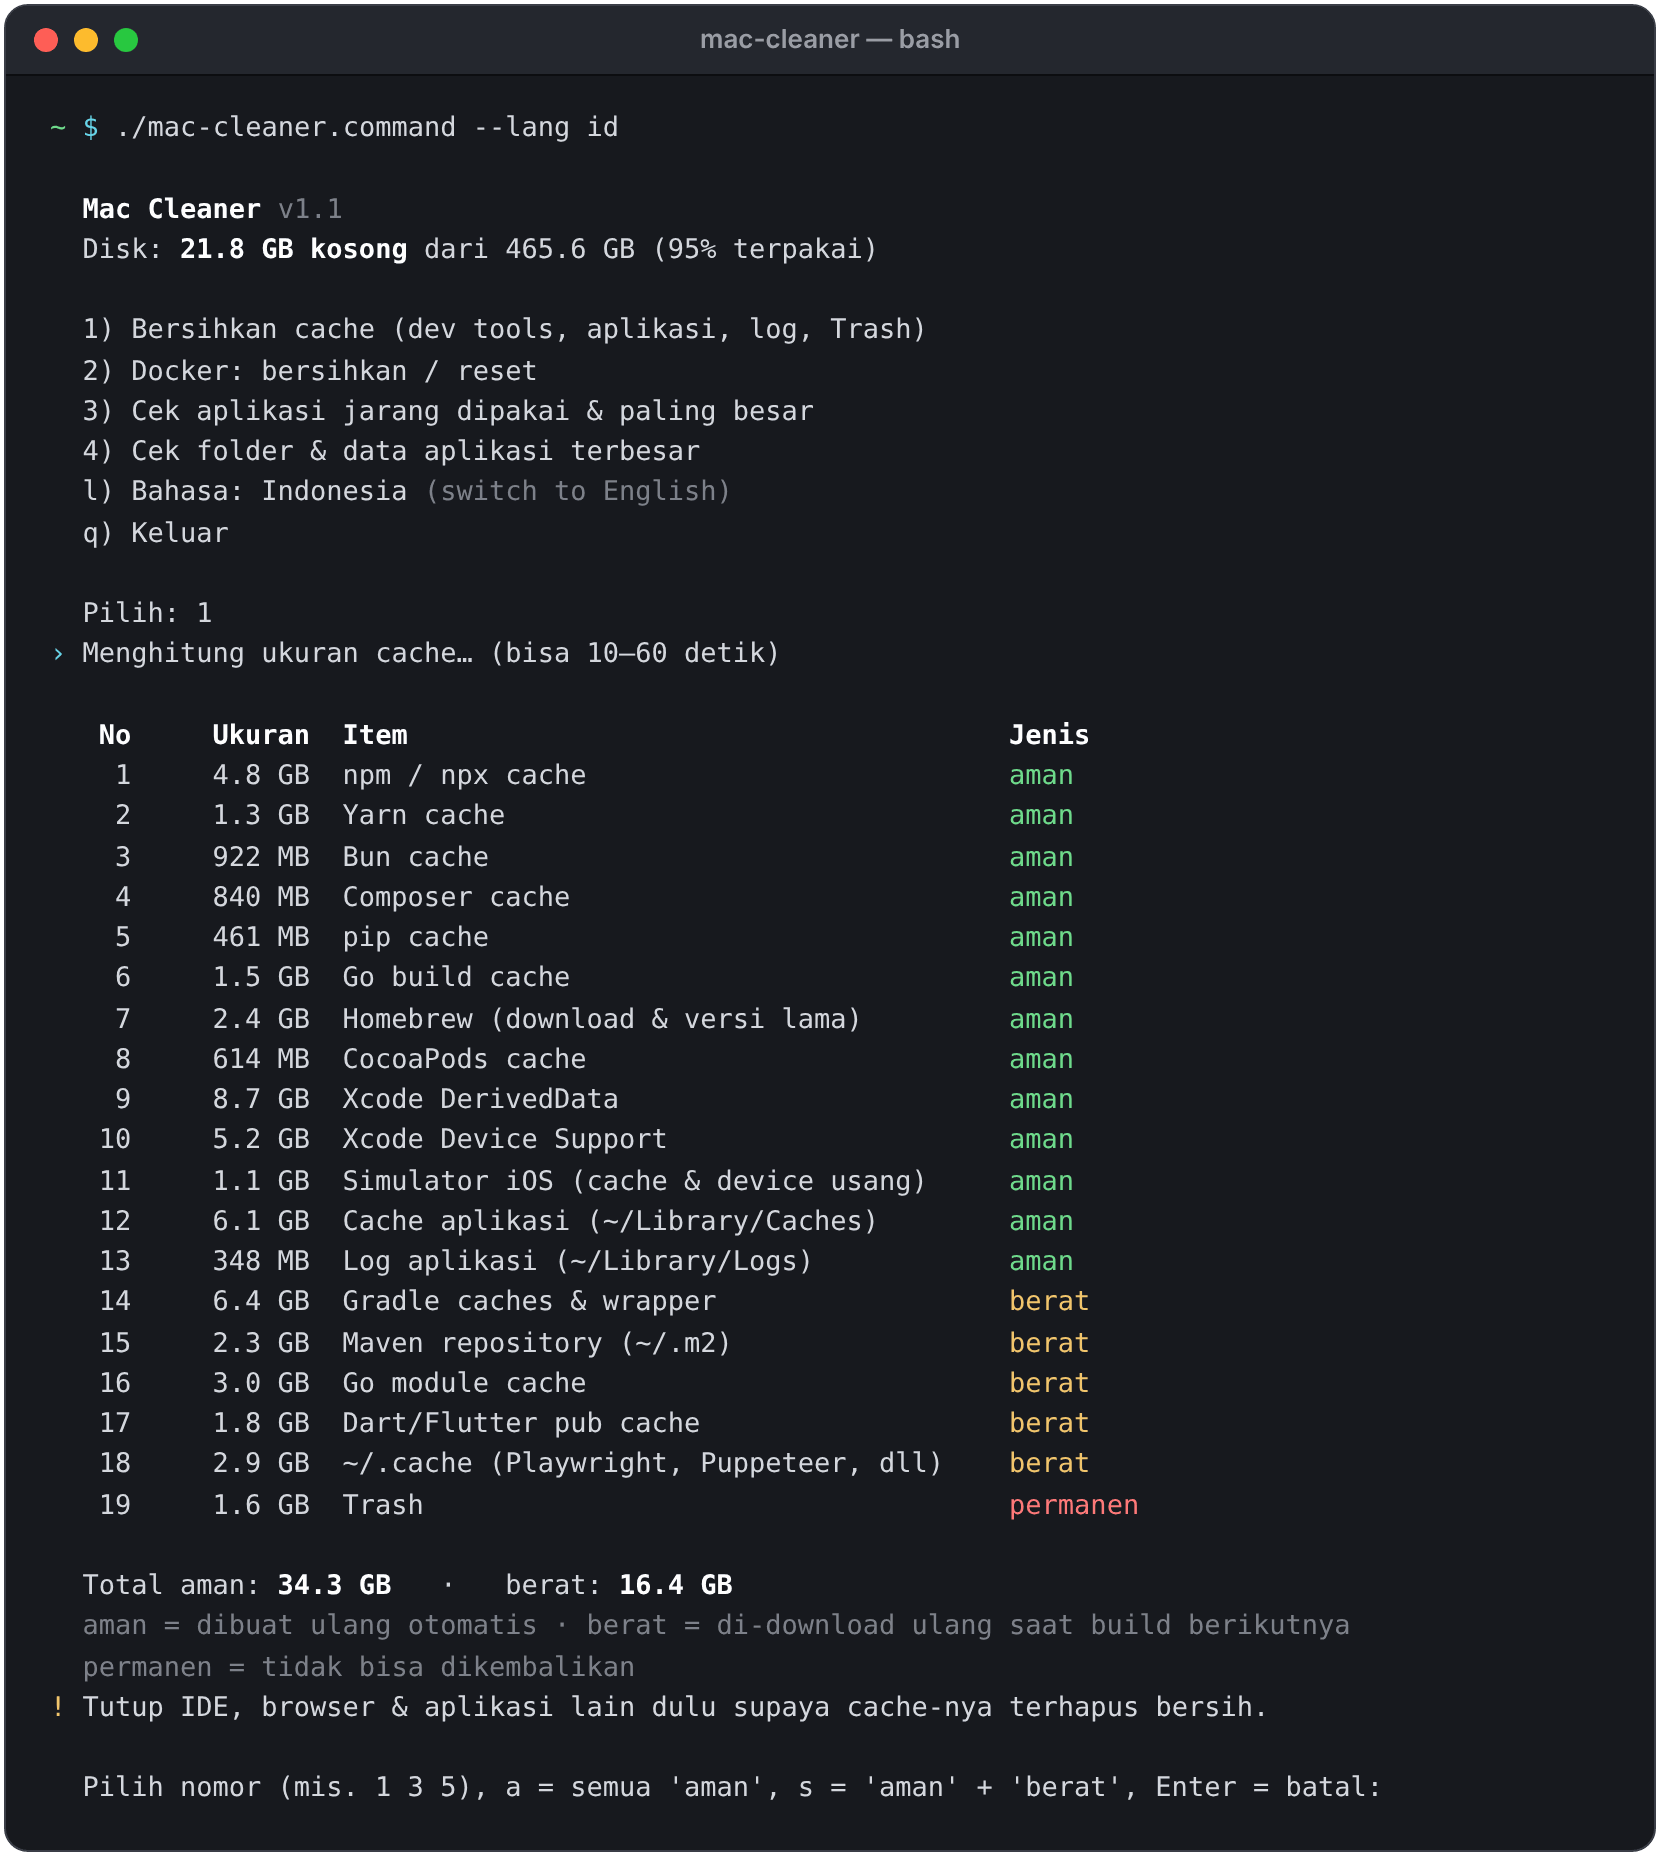
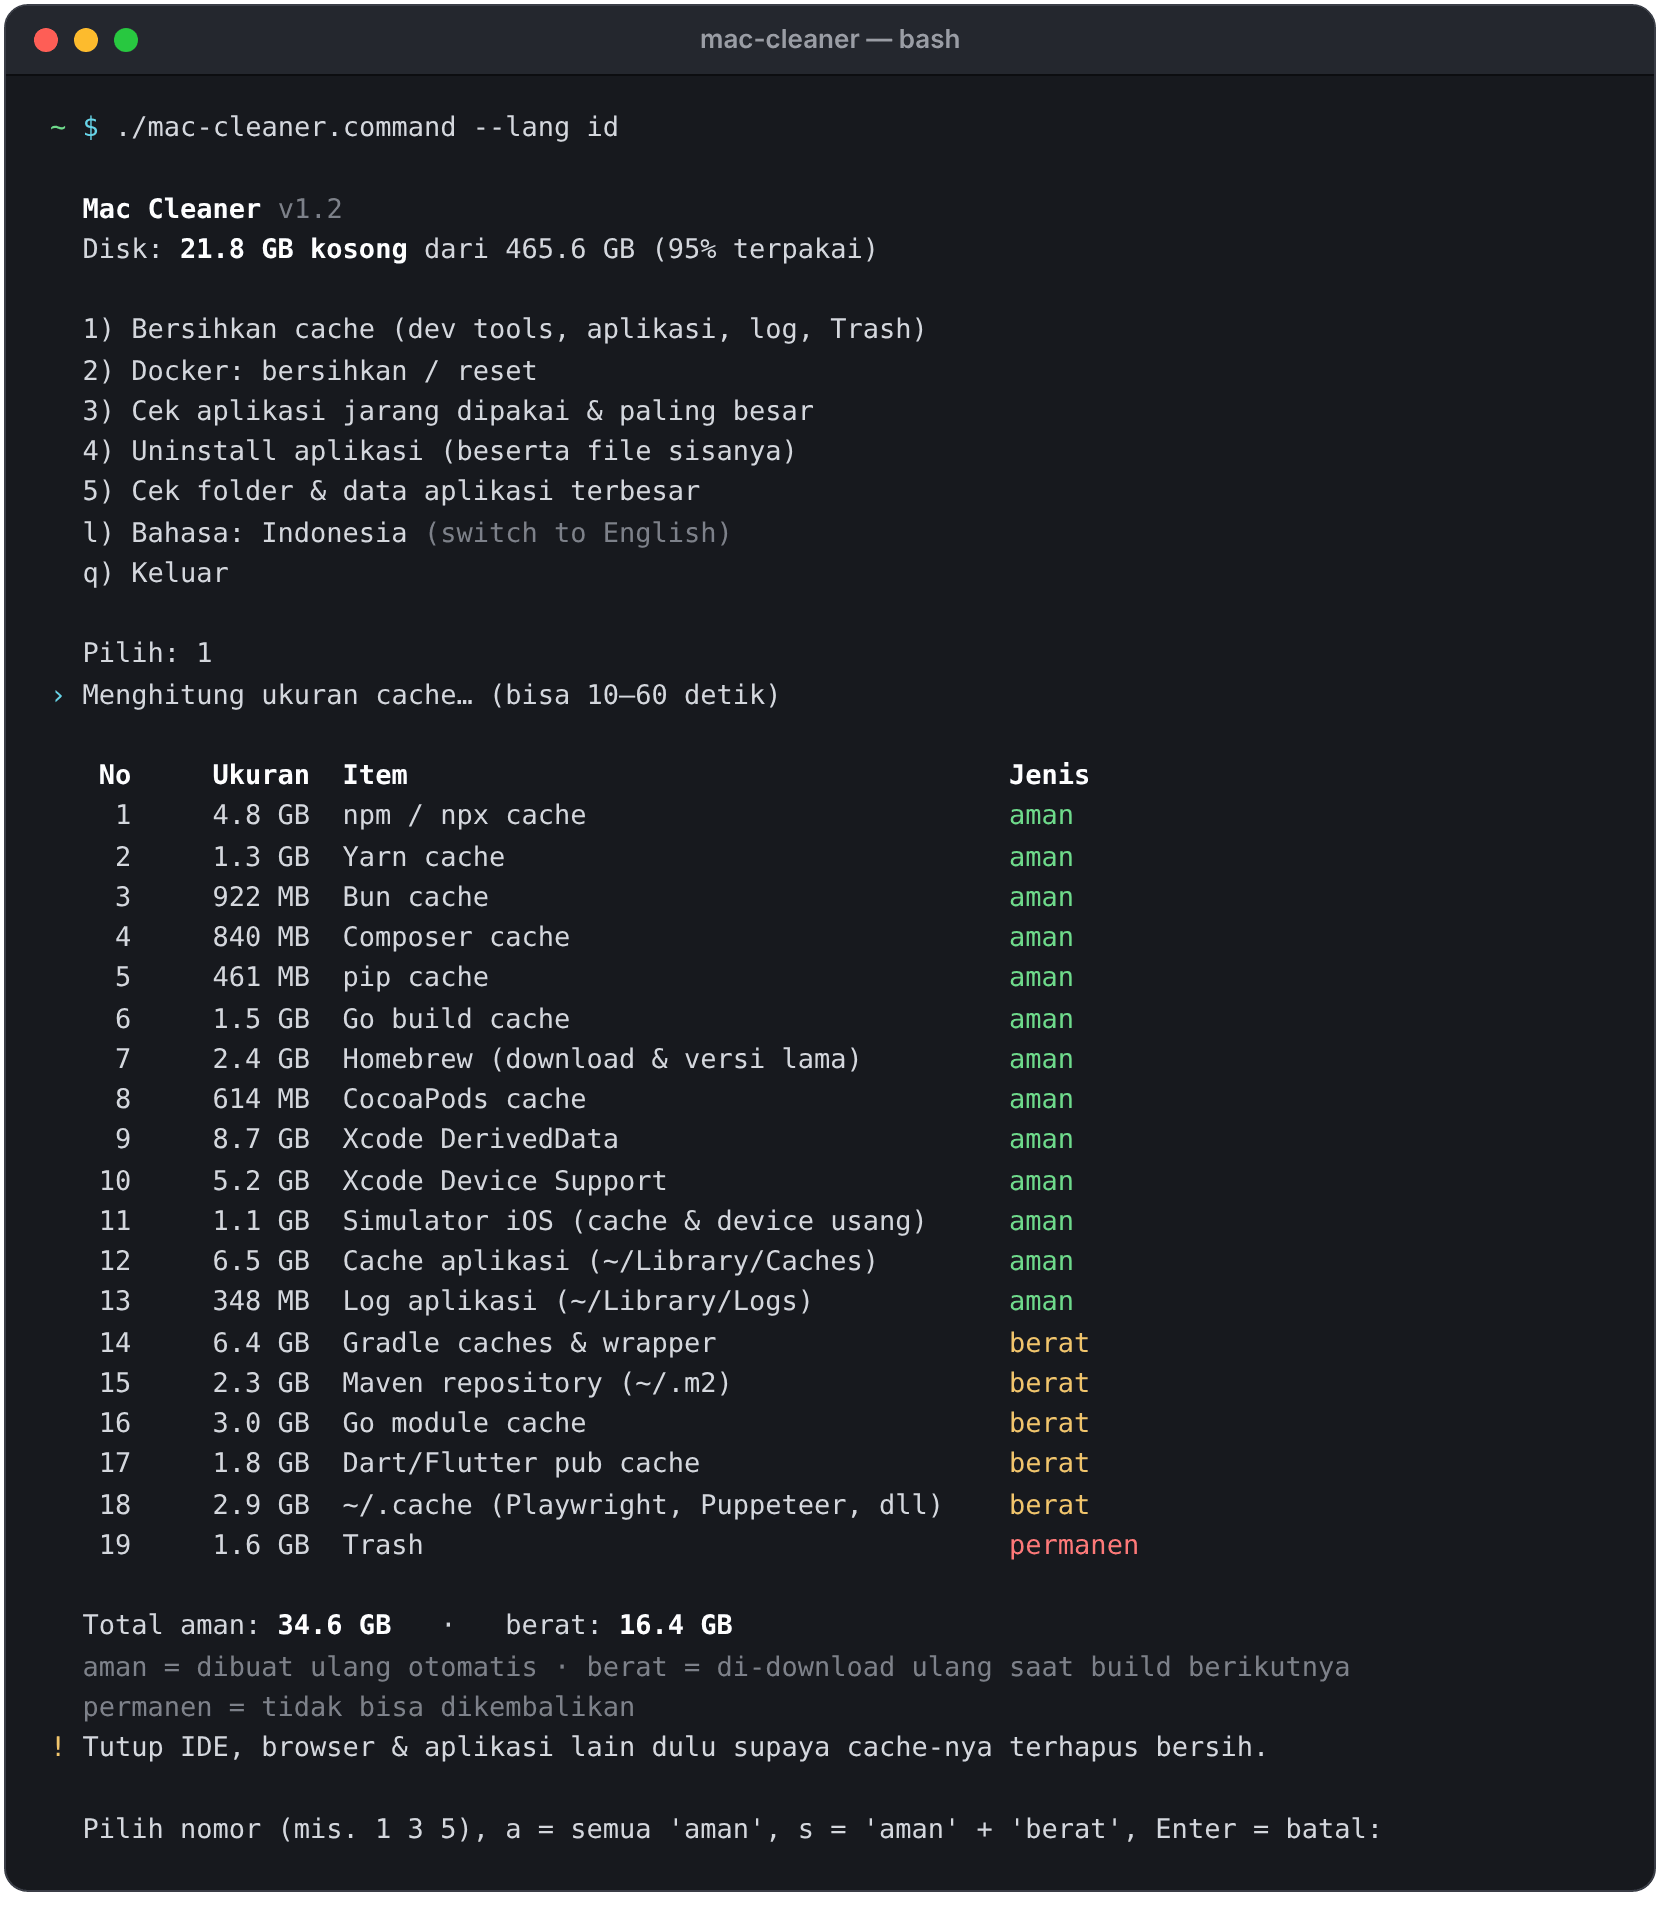
Add app uninstaller (v1.2)
New menu 4 "Uninstall an app": search, pick an app, and Mac Cleaner lists
the app plus its leftover files in ~/Library (Application Support, Caches,
Logs, Preferences, Saved Application State, Containers, Group Containers,
HTTPStorages, WebKit, Cookies, LaunchAgents, Application Scripts), then
moves everything to the Trash via Finder.

- Matches by bundle ID (incl. helpers and team/group containers) and by a
  folder named exactly like the app
- Never includes files of another installed app (e.g. Chrome vs Canary);
  with duplicate copies only the app itself is removed
- Offers to quit a running app first; 'a' removes the app only
- /Library system files are listed but never removed (need admin)
- Menu 3 now uses the same uninstall flow; largest folders moves to menu 5
- README + screenshots updated

Claude-Session: https://claude.ai/code/session_018yoJ2Y9ACy9wAvsBj1ghxZ

diff --git a/README.md b/README.md
@@ -7,7 +7,8 @@ One interactive script, no install, no sudo, no dependencies. English & Bahasa I
 
 - 🧹 **Clean caches** — npm, Yarn, pnpm, Bun, Composer, pip, Go, Homebrew, Gradle, Maven, Flutter, NuGet, Xcode, iOS Simulator, `~/Library/Caches`, logs, Trash
 - 🐳 **Docker / OrbStack** — prune build cache & unused images, remove unused volumes, or a full OrbStack reset
-- 📦 **Find rarely used & large apps** — sorted by size, with "last opened" from macOS, and move them to Trash
+- 📦 **Find rarely used & large apps** — sorted by size, with "last opened" from macOS
+- 🗑 **Uninstall apps completely** — the app plus its leftover files in `~/Library` (preferences, caches, containers, app data…), moved to the Trash
 - 📊 **Find the largest folders & app data** in your home folder and `~/Library`, then reveal them in Finder
 
 ![Mac Cleaner cleaning developer caches](screenshots/caches.png)
@@ -50,6 +51,10 @@ The language follows your macOS language by default. Switch it any time with **`
 **Rarely used & largest apps** — sorted by size, with when each app was last opened
 
 ![Rarely used and largest apps](screenshots/apps.png)
+
+**Uninstall an app** — the app and every leftover file are listed (with sizes) before anything moves
+
+![Uninstall an app with its leftover files](screenshots/uninstall.png)
 
 **Docker / OrbStack** — stopped containers are listed before anything is removed
 
@@ -97,11 +102,24 @@ Every item shows its size first and only runs after you confirm. Items are label
 
 OrbStack returns freed disk space to macOS automatically.
 
+## Uninstalling apps
+
+Menu **4** (or pick an app straight from the rarely-used list in menu **3**). Search by name, pick an app, and Mac Cleaner shows the app plus everything it left in your `~/Library`:
+
+`Application Support`, `Caches`, `Logs`, `Preferences` (incl. `ByHost`), `Saved Application State`, `Containers`, `Group Containers`, `HTTPStorages`, `WebKit`, `Cookies`, `LaunchAgents`, `Application Scripts`.
+
+- Files are matched by the app's **bundle ID** (e.g. `com.docker.docker`, its helpers, team/group containers) and by a folder with **exactly** the app's name.
+- Files that belong to **another installed app** are never included (uninstalling Chrome leaves Chrome Canary alone). If two copies of the same app are installed, only the app is removed.
+- Everything goes to the **Trash**, so you can put it back. Choose `a` to remove only the app.
+- A running app is quit first (you're asked).
+- System-level files in `/Library` (launch daemons, helper tools) are **shown but not removed** — they need an admin password.
+- Apps installed in their own vendor folder (e.g. Adobe) get a hint to use the vendor's uninstaller. Installed with Homebrew? `brew uninstall --cask --zap <name>` also does a full cleanup.
+
 ## Safety
 
 - No `sudo`. The script itself only deletes inside your home folder, and only the **contents** of known cache folders. Anything else is done by each tool's own cleanup command (`brew cleanup`, `docker … prune`, `orb reset`, `xcrun simctl`).
-- Never touched: Desktop, Documents, Downloads, Pictures, Music, Movies, your projects, `~/.ssh`, Keychains, Preferences.
-- Apps are **moved to Trash** (recoverable), never deleted directly. Running apps are skipped.
+- Never touched: Desktop, Documents, Downloads, Pictures, Music, Movies, your projects, `~/.ssh`, Keychains. Preferences are only removed for an app you uninstall.
+- Uninstalled apps and their leftovers are **moved to the Trash** (recoverable), never deleted directly.
 - Use `--dry-run` first to see exactly what would happen.
 
 ## Requirements
@@ -115,7 +133,9 @@ OrbStack returns freed disk space to macOS automatically.
 
 **An app shows "never recorded".** macOS has no record of it being opened — it was never opened, or only launched from the command line.
 
-**Menu 4 doesn't count `~/Library/Containers`.** Those folders need *Full Disk Access*. Give it to Terminal in *System Settings › Privacy & Security › Full Disk Access* if you want them included. Without it, Mac Cleaner skips them so you don't get a flood of permission pop-ups.
+**Menu 5 doesn't count `~/Library/Containers`.** Those folders need *Full Disk Access*. Give it to Terminal in *System Settings › Privacy & Security › Full Disk Access* if you want them included. Without it, Mac Cleaner skips them so you don't get a flood of permission pop-ups.
+
+**macOS asks whether Terminal may "access data from other apps".** That happens when uninstalling a sandboxed app, because its leftovers live in `~/Library/Containers`. Allowing it lets Mac Cleaner measure and move those files.
 
 **macOS blocks double-clicking the file.** If you downloaded it with a browser, run `xattr -d com.apple.quarantine mac-cleaner.command` and `chmod +x mac-cleaner.command` once. Files from `git clone` or `curl` don't have this problem.
 
@@ -136,7 +156,8 @@ Satu script interaktif, tanpa instalasi, tanpa sudo, tanpa dependency. Tersedia 
 
 - 🧹 **Bersihkan cache** — npm, Yarn, pnpm, Bun, Composer, pip, Go, Homebrew, Gradle, Maven, Flutter, NuGet, Xcode, Simulator iOS, `~/Library/Caches`, log, Trash
 - 🐳 **Docker / OrbStack** — hapus build cache & image tak terpakai, hapus volume tak terpakai, atau reset total OrbStack
-- 📦 **Cari aplikasi jarang dipakai & paling besar** — urut dari yang terbesar, lengkap dengan "terakhir dibuka", lalu pindahkan ke Trash
+- 📦 **Cari aplikasi jarang dipakai & paling besar** — urut dari yang terbesar, lengkap dengan "terakhir dibuka"
+- 🗑 **Uninstall aplikasi sampai bersih** — aplikasi beserta file sisanya di `~/Library` (preferensi, cache, container, data aplikasi…), dipindah ke Trash
 - 📊 **Cari folder & data aplikasi terbesar** di folder home dan `~/Library`, lalu tampilkan di Finder
 
 ![Mac Cleaner dalam Bahasa Indonesia](screenshots/caches-id.png)
@@ -176,18 +197,30 @@ Daftar lengkap lokasi ada di tabel [What gets cleaned](#what-gets-cleaned) di at
 
 **Docker:** (1) bersihkan aman — container berhenti, network & image dangling, build cache, volume tidak disentuh; (2) hapus semua image tak terpakai; (3) hapus volume tak terpakai — wajib ketik `HAPUS`, ⚠ termasuk volume database proyek yang sudah `docker compose down`; (4) reset total OrbStack — wajib ketik `RESET`.
 
+### Uninstall aplikasi
+
+Pakai menu **4** (atau pilih langsung dari daftar aplikasi jarang dipakai di menu **3**). Cari nama aplikasinya, pilih, lalu Mac Cleaner menampilkan aplikasi beserta semua file sisanya di `~/Library` lengkap dengan ukurannya.
+
+- File dicocokkan lewat **bundle ID** aplikasi dan folder yang namanya **persis** sama dengan nama aplikasi.
+- File milik **aplikasi lain yang masih terpasang** tidak pernah ikut (uninstall Chrome tidak menyentuh Chrome Canary). Kalau ada dua salinan aplikasi yang sama, hanya aplikasinya yang dihapus.
+- Semuanya dipindah ke **Trash**, jadi bisa dikembalikan. Pilih `a` untuk menghapus aplikasinya saja.
+- Aplikasi yang sedang berjalan akan ditutup dulu (dengan konfirmasi).
+- File level sistem di `/Library` hanya **ditampilkan, tidak dihapus** (butuh password admin).
+- Diinstal lewat Homebrew? `brew uninstall --cask --zap <nama>` juga membersihkan sampai tuntas.
+
 ### Keamanan
 
 - Tanpa `sudo`. Script ini hanya menghapus di dalam folder home, dan hanya **isi** folder cache yang dikenal. Selebihnya dikerjakan perintah pembersih bawaan tiap tool (`brew cleanup`, `docker … prune`, `orb reset`, `xcrun simctl`).
-- Tidak pernah disentuh: Desktop, Documents, Downloads, Pictures, Music, Movies, proyek Anda, `~/.ssh`, Keychain, Preferences.
-- Aplikasi hanya **dipindah ke Trash** (bisa dikembalikan). Aplikasi yang sedang berjalan dilewati.
+- Tidak pernah disentuh: Desktop, Documents, Downloads, Pictures, Music, Movies, proyek Anda, `~/.ssh`, Keychain. Preferences hanya dihapus untuk aplikasi yang Anda uninstall.
+- Aplikasi yang di-uninstall beserta file sisanya **dipindah ke Trash** (bisa dikembalikan).
 - Pakai `--dry-run` dulu untuk melihat persis apa yang akan terjadi.
 
 ### Pertanyaan umum
 
 - **Ruang kosong tidak langsung bertambah?** macOS kadang menahan ruang di snapshot APFS. Cek lagi beberapa menit kemudian.
 - **Aplikasi "tidak tercatat"?** macOS tidak punya catatan kapan aplikasi itu dibuka (belum pernah dibuka, atau hanya lewat CLI).
-- **Menu 4 tidak menghitung `~/Library/Containers`?** Folder itu butuh *Full Disk Access*. Aktifkan untuk Terminal di *System Settings › Privacy & Security › Full Disk Access*.
+- **Menu 5 tidak menghitung `~/Library/Containers`?** Folder itu butuh *Full Disk Access*. Aktifkan untuk Terminal di *System Settings › Privacy & Security › Full Disk Access*.
+- **macOS bertanya apakah Terminal boleh "mengakses data dari aplikasi lain"?** Itu muncul saat uninstall aplikasi sandbox, karena file sisanya ada di `~/Library/Containers`. Izinkan supaya Mac Cleaner bisa mengukur dan memindahkan file tersebut.
 - **File tidak bisa di-double-click?** Kalau di-download lewat browser, jalankan sekali: `xattr -d com.apple.quarantine mac-cleaner.command` dan `chmod +x mac-cleaner.command`.
 
 ### Kontribusi
